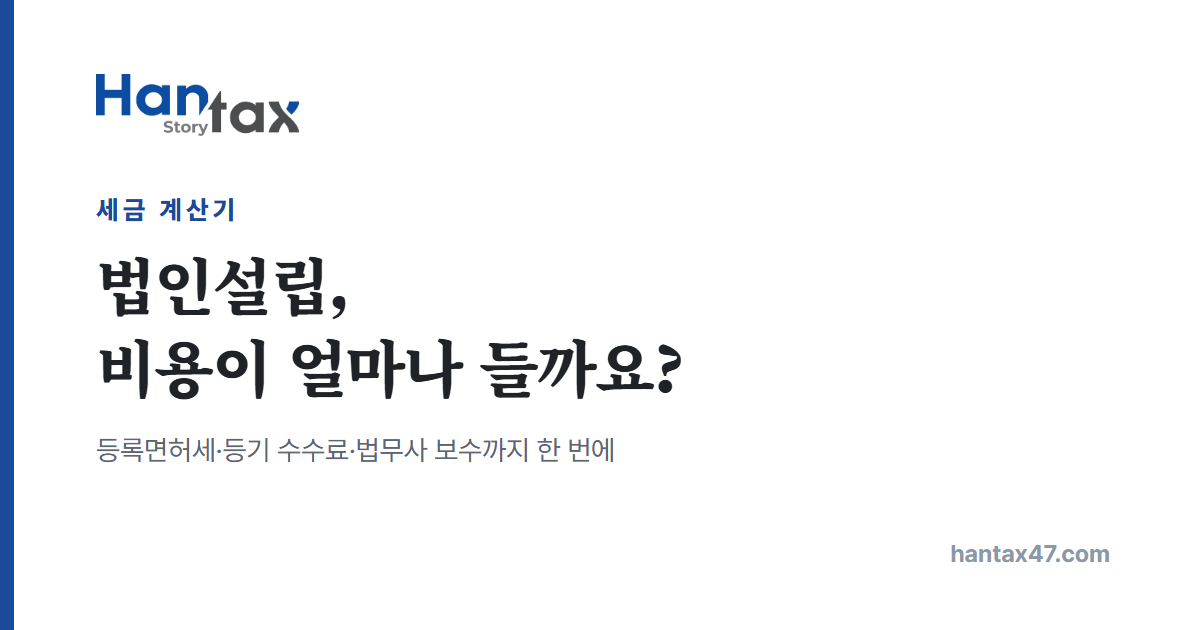
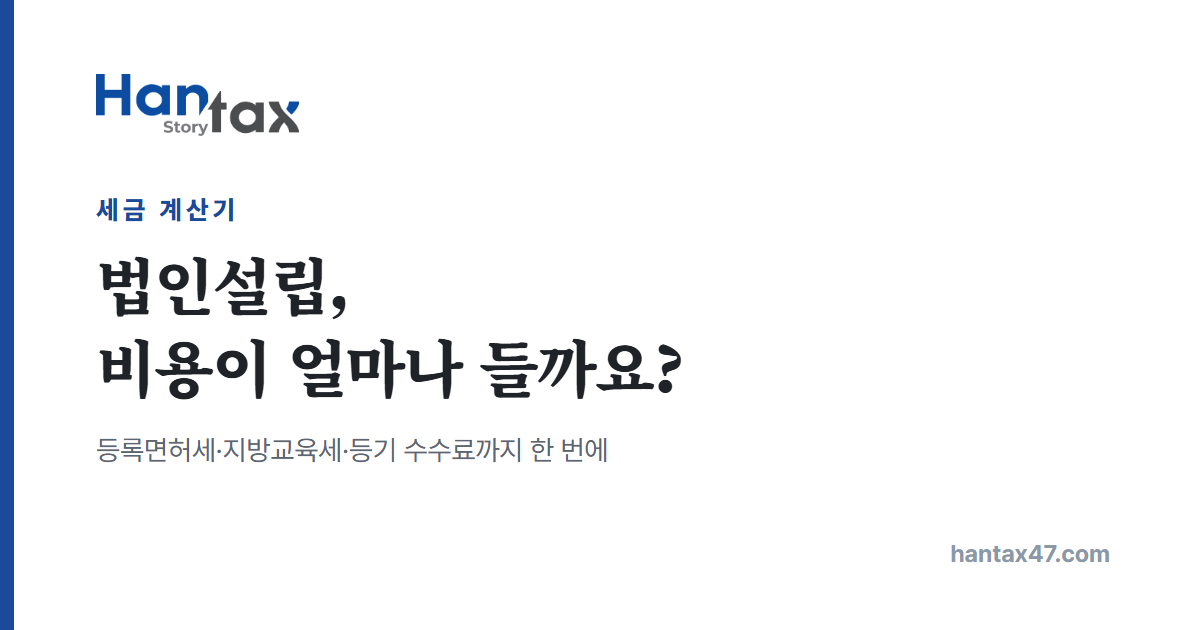
법인설립 비용 계산기, 법무사 보수는 견적서 비밀번호를 넣은 직원 화면에서만 표시
- 공개 계산표는 세금과 공과금 합계까지만 보여 주고 법무사 보수는 별도라고 안내
- 견적서 비밀번호가 맞으면 계산표에 법무사 보수와 설립 비용 합계가 나오고 견적서 PDF에도 포함
- 제목·설명·카드·공유 이미지 문구에서 법무사 보수 표현 제거

Changed region(s): [[0.185, 0.6937, 0.5242, 0.754]]

diff --git a/tools/company-setup.html b/tools/company-setup.html
@@ -3,11 +3,11 @@
 <head>
 <meta charset="UTF-8">
 <meta name="viewport" content="width=device-width, initial-scale=1.0">
-<title>법인설립 비용 계산기 2026, 등록면허세·등기 수수료·법무사 보수 | 한택스</title>
-<meta name="description" content="자본금과 본점 지역으로 법인설립 등록면허세와 지방교육세, 등기신청 수수료, 법무사 보수까지 한 번에 계산합니다. 서울 등 과밀억제권역 3배 중과와 산업단지·중과 제외 업종 예외도 반영합니다.">
+<title>법인설립 비용 계산기 2026, 등록면허세·지방교육세·등기 수수료 | 한택스</title>
+<meta name="description" content="자본금과 본점 지역으로 법인설립 등록면허세와 지방교육세, 등기신청 수수료까지 한 번에 계산합니다. 서울 등 과밀억제권역 3배 중과와 산업단지·중과 제외 업종 예외도 반영합니다.">
 <link rel="canonical" href="https://www.hantax47.com/tools/company-setup.html">
 <meta property="og:title" content="법인설립, 비용이 얼마나 들까요?">
-<meta property="og:description" content="등록면허세·등기 수수료·법무사 보수까지 법인설립 비용을 한 번에 계산합니다">
+<meta property="og:description" content="등록면허세·지방교육세·등기 수수료까지 법인설립 비용을 한 번에 계산합니다">
 <meta property="og:type" content="website">
 <meta property="og:url" content="https://www.hantax47.com/tools/company-setup.html">
 <meta property="og:image" content="https://www.hantax47.com/assets/og/tool-company-setup.png">
@@ -256,7 +256,7 @@
   <div class="wrap">
     <span class="eyebrow">법인설립</span>
     <h1>법인설립,<br>비용이 얼마나 들까요?</h1>
-    <p class="lead">자본금과 본점 지역만 넣으면 등록면허세와 지방교육세, 등기 수수료, 법무사 보수까지 법인설립에 드는 돈을 한 번에 계산합니다. 서울처럼 과밀억제권역에 세우면 세금이 3배가 되는지도 함께 확인합니다.</p>
+    <p class="lead">자본금과 본점 지역만 넣으면 등록면허세와 지방교육세, 등기 수수료까지 법인설립에 드는 세금과 공과금을 한 번에 계산합니다. 서울처럼 과밀억제권역에 세우면 세금이 3배가 되는지도 함께 확인합니다.</p>
   </div>
 </section>
 
@@ -385,7 +385,7 @@
         · 과밀억제권역은 수도권정비계획법 시행령 별표1을 기준으로 주소의 시·군·구와 법정동으로 판단했습니다. 경제자유구역·산업단지처럼 동 안에서 경계가 갈리는 곳은 정확한 위치를 확인해야 합니다.<br>
         · 등록면허세는 자본금의 0.4%(최저 112,500원), 과밀억제권역 중과 시 3배, 지방교육세는 등록면허세의 20%로 계산했습니다. 2026년 기준입니다.<br>
         · 등기신청 수수료 20,000원, 등기부등본·제증명 5,000원, 인감증명 5,000원, 법인 전자증명서 4,000원을 넣었습니다.<br>
-        · 법무사 보수는 한택스 연계 법무법인 기준이며, 자본금 규모와 임원·주주 수, 업종 인허가 여부에 따라 달라질 수 있습니다.
+        · 법무사 보수는 넣지 않았습니다. 자본금 규모와 임원·주주 수, 업종 인허가 여부에 따라 달라져 상담으로 견적을 안내드립니다.
       </p>
 
       <div class="morelinks">
@@ -545,6 +545,7 @@ const shown=()=>$('res').style.display==='block';
 /* ── 화면 ─────────────────────────────────── */
 function render(){
   const c=read(), r=calcSetup(c);
+  const staff=!!ACCT, sum=staff?r.total:r.pub;       // 법무사 보수는 견적서 비밀번호를 넣은 직원 화면에서만 보입니다
   const row=(l,sm,v,cls)=>'<tr'+(cls?' class="'+cls+'"':'')+'><td>'+l+(sm?'<small>'+sm+'</small>':'')+'</td><td>'+v+'</td></tr>';
   const sec=l=>'<tr class="sec"><td>'+l+'</td><td></td></tr>';
   $('rt-body').innerHTML=
@@ -554,24 +555,26 @@ function render(){
     +FEES.map((f,i)=>row(f[0],r.ov['f'+i]!=null?'직접 입력한 금액':f[1],won(r.feeVals[i])+'원')).join('')
     +(c.notary||c.notaryNeed?row('정관 공증료',c.notary?'':'공증 사무소 수수료 별도',c.notary?won(c.notary)+'원':'별도'):'')
     +(c.stamp?row('법인도장 제작','',won(c.stamp)+'원'):'')
-    +row('세금과 공과금 소계','',won(r.pub)+'원','sum')
+    +(staff?row('세금과 공과금 소계','',won(r.pub)+'원','sum')
     +sec('법무사 보수')
     +row('보수','',won(c.fee)+'원')
     +row('부가가치세','보수의 10%',won(r.feeVat)+'원')
     +(c.dc?row('할인','',(c.dc?'−&nbsp;':'')+won(c.dc)+'원','minus')+row('부가가치세','할인액의 10%','−&nbsp;'+won(r.dcVat)+'원','minus'):'')
     +row('법무사 보수 소계','',won(r.pro)+'원','sum')
-    +'<tr class="tot"><td>설립 비용 합계</td><td>'+won(r.total)+'원</td></tr>';
+    +'<tr class="tot"><td>설립 비용 합계</td><td>'+won(r.total)+'원</td></tr>'
+    :'<tr class="tot"><td>세금과 공과금 합계<small>법무사 보수는 별도입니다</small></td><td>'+won(r.pub)+'원</td></tr>');
 
   $('res-sub').textContent='자본금 '+won(c.capital)+'원 · '+(c.metro?(c.exempt?'과밀억제권역 (중과 제외)':'과밀억제권역'):'과밀억제권역 밖');
-  $('call').innerHTML='<div class="lbl">법인설립에 드는 돈</div><div class="val">'+manwon(r.total).replace(/ ?원$/,'')+'<small>원</small></div>'
-    +'<div class="sub">세금 '+manwon(r.tax)+', 등기 수수료와 증명서 '+manwon(r.pub-r.tax)+', 법무사 보수 '+manwon(r.pro)+'(부가세 포함)입니다.</div>';
+  $('call').innerHTML='<div class="lbl">'+(staff?'법인설립에 드는 돈':'법인설립에 드는 세금과 공과금')+'</div><div class="val">'+manwon(sum).replace(/ ?원$/,'')+'<small>원</small></div>'
+    +'<div class="sub">세금 '+manwon(r.tax)+', 등기 수수료와 증명서 '+manwon(r.pub-r.tax)
+    +(staff?', 법무사 보수 '+manwon(r.pro)+'(부가세 포함)입니다.':'입니다. 법무사 보수는 별도입니다.')+'</div>';
 
   const notes=[];
   if(r.heavy) notes.push({warn:1,t:'과밀억제권역이라 등록면허세가 <b>3배</b>입니다. 같은 자본금이라도 산업단지 안이나 과밀억제권역 밖에 세우면 세금이 '+manwon(r.heavyExtra)+' 줄어듭니다. 설립 후 5년 안에 자본금을 늘릴 때도 3배가 붙습니다.'});
   if(c.metro) notes.push({t:'과밀억제권역 안에서 설립 등기를 하면 창업중소기업 세액감면율이 크게 낮아지고, 청년이 아니면 감면을 받지 못합니다. 본점 주소를 정하기 전에 <a href="startup-tax-credit.html">창업감면 자가진단</a>으로 확인해 보세요.'});
   if(c.capital&&c.capital<=28125000) notes.push({t:'자본금 2,812만 5천 원까지는 최저세액이 적용되어 등록면허세가 같습니다.'});
   if(c.notaryNeed&&!c.notary) notes.push({t:'자본금 10억 원 이상이거나 모집설립이면 정관 공증을 받아야 해서 공증 수수료가 따로 듭니다.'});
-  $('verdict').innerHTML='법인설립 비용은 모두 <b>'+manwon(r.total)+'</b>입니다.'+notes.map(n=>'<span class="note'+(n.warn?' warn':'')+'">'+n.t+'</span>').join('');
+  $('verdict').innerHTML=(staff?'법인설립 비용은 모두 <b>'+manwon(r.total)+'</b>입니다.':'법인설립에 드는 세금과 공과금은 <b>'+manwon(r.pub)+'</b>입니다. 법무사 보수는 상담으로 견적을 안내드립니다.')+notes.map(n=>'<span class="note'+(n.warn?' warn':'')+'">'+n.t+'</span>').join('');
   // 견적서 칸 가운데 고치지 않은 칸은 자동 계산 금액으로 맞춰 둡니다
   const auto={reg:r.regAuto,edu:f10(r.reg*EDU),f0:FEES[0][2],f1:FEES[1][2],f2:FEES[2][2],f3:FEES[3][2]};
   OV.forEach(([id,k])=>{ if(!$(id).dataset.edited) $(id).value=auto[k].toLocaleString('ko-KR'); });
@@ -604,6 +607,7 @@ function openQuote(){
   $('rpt-lock').hidden=true; $('rpt-lock-msg').textContent='수신과 견적 항목을 확인한 뒤 견적서를 만드세요. 금액을 고치면 위 계산표와 견적서에 바로 반영되고, 고친 칸은 파랗게 표시됩니다.';
   $('rpt-body').hidden=false;
   $('q-acct').innerHTML='입금 계좌 <b>'+esc(ACCT.bank)+' '+esc(ACCT.account)+'</b> · 예금주 <b>'+esc(ACCT.holder)+'</b>';
+  if(shown()&&read().capital) render();
   if(!$('q-date').value){ const t=new Date(); $('q-date').value=t.getFullYear()+'-'+String(t.getMonth()+1).padStart(2,'0')+'-'+String(t.getDate()).padStart(2,'0'); }
 }
 const esc=s=>String(s).replace(/[&<>"]/g,ch=>({'&':'&amp;','<':'&lt;','>':'&gt;','"':'&quot;'}[ch]));

diff --git a/tools/index.html b/tools/index.html
@@ -169,7 +169,7 @@
 
       <a class="tool" href="company-setup.html">
         <b>법인설립,<br>비용이 얼마나 들까요?</b>
-        <p>자본금과 본점 지역으로 등록면허세와 지방교육세, 등기 수수료, 법무사 보수까지 법인설립 비용을 한 번에 계산합니다. 과밀억제권역 3배 중과도 확인합니다.</p>
+        <p>자본금과 본점 주소로 등록면허세와 지방교육세, 등기 수수료까지 법인설립 비용을 한 번에 계산합니다. 과밀억제권역 3배 중과도 확인합니다.</p>
         <span class="go">계산해 보기</span>
       </a>
 
